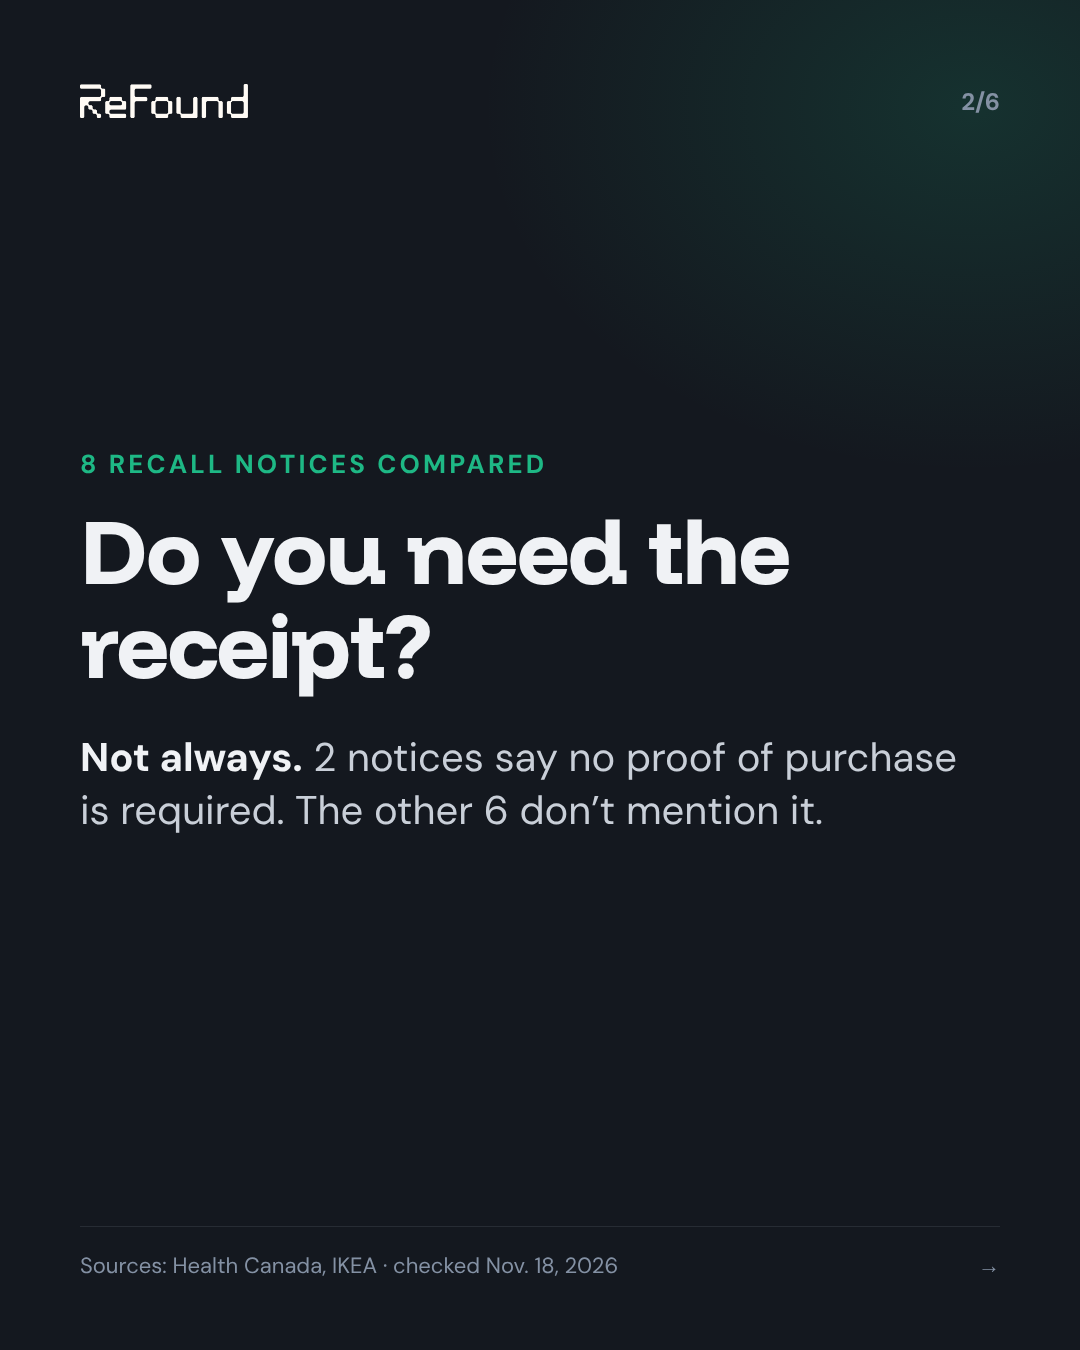
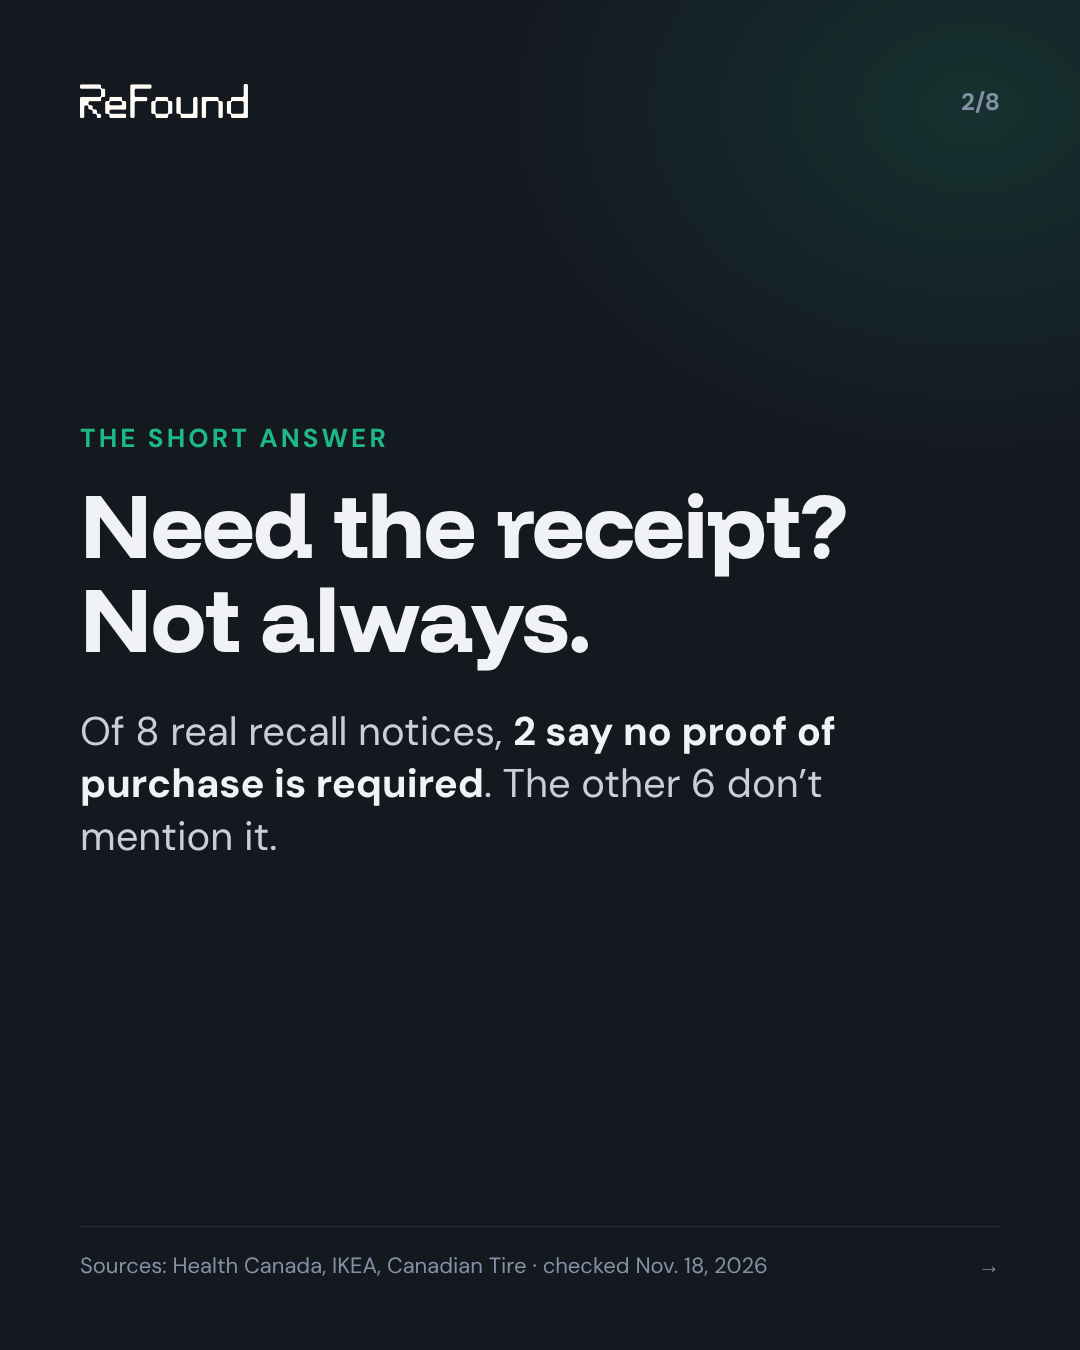
rappel-produit-recu carousel v2: 8 slides (hook, answer, value, real receipt, save-this checklist, CTA); 'list' slide type in render-carousel.js
Claude-Session: https://claude.ai/code/session_01RobFqgR2K4ctFiasTkgThL

Changed region(s): [[0.0611, 0.3111, 0.8861, 0.6533], [0.3667, 0.9333, 0.6111, 0.9644], [0.6417, 0.9333, 0.7028, 0.9644]]

diff --git a/social/rappel-produit-recu/slides.js b/social/rappel-produit-recu/slides.js
@@ -1,17 +1,33 @@
 // Contenu du carrousel (rendu : node tools/render-carousel.js rappel-produit-recu social/rappel-produit-recu)
+// Structure (social/README.md) : accroche → réponse → valeur (3 diapos) → reçu réel → diapo « à garder » → fin.
 module.exports = {
-  fr: { src: 'Sources : Santé Canada, IKEA · vérifié le 18 nov. 2026', slides: [
-    { type: 'hook', eyebrow: 'Rappel de produit', title: 'Un rappel <em>6 ans</em> après l’achat?', text: 'C’est arrivé à une souffleuse à neige vendue chez Canadian Tire. Votre reçu sert encore.' },
-    { type: 'text', eyebrow: '8 avis de rappel comparés', title: 'Faut-il le reçu?', text: '<b>Pas toujours.</b> 2 avis précisent qu’aucune preuve d’achat n’est requise. Les 6 autres n’en parlent pas.' },
+  fr: { src: 'Sources : Santé Canada, IKEA, Canadian Tire · vérifié le 18 nov. 2026', slides: [
+    { type: 'hook', eyebrow: 'Rappel de produit', title: 'Un rappel <em>6 ans</em> après l’achat?', text: 'Une souffleuse vendue chez Canadian Tire dès mars 2019 a été visée par un rappel élargi en mars 2025.' },
+    { type: 'text', eyebrow: 'La réponse courte', title: 'Faut-il le reçu? Pas toujours.', text: 'Sur 8 avis de rappel réels, <b>2 disent qu’aucune preuve d’achat n’est requise</b>. Les 6 autres n’en parlent pas.' },
     { type: 'stat', eyebrow: '4 rappels Canadian Tire', stat: '14 mois<br>à 6 ans', title: 'entre l’achat et l’avis', text: 'Le délai de retour, lui : 90 jours.' },
-    { type: 'text', eyebrow: 'Le reçu', title: 'Le numéro est sur votre reçu', text: 'Chez Canadian Tire, les avis citent un numéro au même format que le reçu, comme <b>043-5105</b>.' },
-    { type: 'text', eyebrow: 'Le produit', title: 'Le lot est sur l’étiquette', text: 'Lot, poinçon de date, CUP : vérifiez l’étiquette, puis appelez le numéro de l’avis avant de vous déplacer.' },
+    { type: 'text', eyebrow: 'Sans reçu', title: 'La carte ne suffit plus après 90 jours', text: 'Chez Canadian Tire, la recherche de reçu retrouve les achats par carte de crédit ou de débit dans les 90 jours. Après, il reste votre reçu.' },
+    { type: 'text', eyebrow: 'Le bon numéro', title: 'Le numéro est sur votre reçu', text: 'Les avis de rappel Canadian Tire citent un numéro au même format que les numéros d’article des reçus, comme <b style="white-space:nowrap">043-5105</b>.' },
+    { type: 'receipt', kit: 'canadian-tire', eyebrow: 'Un reçu réel Canadian Tire', title: 'Ce que vous compareriez',
+      rows: [[0, 'N° 083-5519-0', 'var(--gold)'], [7, 'N° 058-0070-6', 'var(--gold)']] },
+    { type: 'list', eyebrow: 'À garder', title: 'Produit rappelé : 4 vérifications', items: [
+      ['Cessez de l’utiliser', 'Tous les avis le demandent.'],
+      ['Vérifiez l’étiquette', 'Modèle, lot, poinçon de date ou CUP.'],
+      ['Retrouvez le reçu', 'Il prouve la date et le lieu d’achat.'],
+      ['Appelez avant d’y aller', 'Le numéro est dans l’avis.']] },
     { type: 'cta', eyebrow: 'Avant le prochain rappel', title: 'Gardez vos reçus avec ReFound', text: 'Une copie lisible, avec le numéro d’article et la date. Pour les alertes de rappel : abonnez-vous à Santé Canada.' }] },
-  en: { src: 'Sources: Health Canada, IKEA · checked Nov. 18, 2026', slides: [
-    { type: 'hook', eyebrow: 'Product recall', title: 'A recall <em>6 years</em> after you bought it?', text: 'It happened to a snowblower sold at Canadian Tire. Your receipt still matters.' },
-    { type: 'text', eyebrow: '8 recall notices compared', title: 'Do you need the receipt?', text: '<b>Not always.</b> 2 notices say no proof of purchase is required. The other 6 don’t mention it.' },
+  en: { src: 'Sources: Health Canada, IKEA, Canadian Tire · checked Nov. 18, 2026', slides: [
+    { type: 'hook', eyebrow: 'Product recall', title: 'A recall <em>6 years</em> after you bought it?', text: 'A snowblower sold at Canadian Tire from March 2019 was covered by an expanded recall in March 2025.' },
+    { type: 'text', eyebrow: 'The short answer', title: 'Need the receipt? Not always.', text: 'Of 8 real recall notices, <b>2 say no proof of purchase is required</b>. The other 6 don’t mention it.' },
     { type: 'stat', eyebrow: '4 Canadian Tire recalls', stat: '14 months<br>to 6 years', size: 170, title: 'between purchase and notice', text: 'The return window: 90 days.' },
-    { type: 'text', eyebrow: 'The receipt', title: 'The number is on your receipt', text: 'At Canadian Tire, notices list a number in the same format as the receipt, like <b>043-5105</b>.' },
-    { type: 'text', eyebrow: 'The product', title: 'The batch is on the label', text: 'Batch, date stamp, UPC: check the label, then call the number in the notice before you go.' },
+    { type: 'text', eyebrow: 'No receipt', title: 'Your card won’t help after 90 days', text: 'At Canadian Tire, receipt look-up finds credit or debit card purchases within 90 days. After that, only your receipt is left.' },
+    { type: 'text', eyebrow: 'The right number', title: 'The number is on your receipt', text: 'Canadian Tire recall notices list a number in the same format as receipt item numbers, like <b style="white-space:nowrap">043-5105-0</b>.' },
+    { type: 'receipt', kit: 'canadian-tire', eyebrow: 'A real Canadian Tire receipt', title: 'What you would compare',
+      names: { 0: 'VIC Fused wood street hockey stick, junior, 40 in', 7: 'Mag-Torch odourized butane refill, 160 g' },
+      rows: [[0, 'No. 083-5519-0', 'var(--gold)'], [7, 'No. 058-0070-6', 'var(--gold)']] },
+    { type: 'list', eyebrow: 'Save this', title: 'Recalled product: 4 checks', items: [
+      ['Stop using it', 'Every notice asks for this.'],
+      ['Check the label', 'Model, batch, date stamp or UPC.'],
+      ['Find the receipt', 'It proves when and where you bought it.'],
+      ['Call before you go', 'The number is in the notice.']] },
     { type: 'cta', eyebrow: 'Before the next recall', title: 'Keep your receipts with ReFound', text: 'A readable copy, with the item number and date. For recall alerts, subscribe to Health Canada.' }] }
 };

diff --git a/tools/render-carousel.js b/tools/render-carousel.js
@@ -1,7 +1,7 @@
 // Carrousels médias sociaux (social/README.md). Usage: node render-carousel.js <slug> <outDir>
 // 1080×1350 (Instagram, Facebook) : fr-01.png… et en-01.png… ; 1080×1920 (TikTok, 9:16) : tt-fr-01.png…, avec
 // zones de sécurité TikTok (haut 200 px, bas 460 px pour la légende, droite 130 px pour les boutons). Types de diapos : hook (accroche), text (titre + texte),
-// stat (gros chiffre), receipt (lignes de kit/receipts.json : ligne imprimée → produit → garantie/date), cta (fin).
+// stat (gros chiffre), list (liste numérotée « à garder » : [titre, détail]), receipt (lignes de kit/receipts.json : ligne imprimée → produit → garantie/date), cta (fin).
 // Contenu tiré de l'article (mêmes sources) ; titre ≤ 8 mots, texte ≤ 25 mots ; aucun faux bouton App Store.
 const { chromium } = require('playwright');
 const fs = require('fs'); const path = require('path');
@@ -44,6 +44,7 @@ const CSS = [font('Funnel Display', FD + '700-normal.woff2', 700), font('Funnel 
 .r.wp{grid-template-columns:150px 1fr;column-gap:24px}.r.wp>*:not(.ph){grid-column:2}.ph{grid-row:1/4;width:150px;height:150px;background:#fff;border-radius:14px;display:flex;align-items:center;justify-content:center;overflow:hidden;align-self:center}.ph img{max-width:100%;max-height:100%}
 .bd{justify-self:start;border:3px solid;border-radius:12px;padding:6px 16px;font-family:'Funnel Display';font-weight:800;font-size:32px}
 .s.tt{height:1920px;padding:200px 130px 460px 80px}.s.tt .t{font-size:84px}.s.tt .b{font-size:40px}
+.ls{list-style:none;padding:0;margin-top:40px;display:grid;gap:22px;counter-reset:n}.ls li{counter-increment:n;display:grid;grid-template-columns:72px 1fr;column-gap:22px;background:var(--card);border:1px solid var(--line);border-radius:18px;padding:22px 24px;align-items:center}.ls li:before{content:counter(n);grid-row:1/3;width:72px;height:72px;border-radius:50%;background:var(--green);color:#0E1217;font-family:'Funnel Display';font-weight:800;font-size:40px;display:flex;align-items:center;justify-content:center}.ls li span{font-weight:800;font-size:36px}.ls li div{color:#C9CFD8;font-size:28px;margin-top:4px}
 .cta .t{font-size:84px}.url{margin-top:44px;font-family:'Funnel Display';font-weight:800;font-size:56px;color:var(--green)}`;
 
 function slide(d, i, n, src, tt) {
@@ -57,6 +58,7 @@ function slide(d, i, n, src, tt) {
     body = `<div class="eyebrow">${d.eyebrow}</div><div class="t h" style="font-size:70px">${d.title}</div><div class="rows">${d.rows.map(([ix, badge, col]) => {
       const it = r.items[ix]; const ph = photo(it); return `<div class="r${ph ? ' wp' : ''}">${ph ? `<div class="ph"><img src="${ph}"></div>` : ''}<div class="pr">${esc(it.printed)}</div><div class="nm">${esc(d.names && d.names[ix] || it.name)}</div><div class="bd" style="border-color:${col};color:${col}">${esc(badge)}</div></div>`; }).join('')}</div>`;
   }
+  if (d.type === 'list') body = `<div class="eyebrow">${d.eyebrow}</div><div class="t h" style="font-size:72px">${d.title}</div><ol class="ls">${d.items.map(x => `<li><span class="h">${x[0]}</span><div>${x[1]}</div></li>`).join('')}</ol>`;
   if (d.type === 'cta') body = `<div class="cta"><div class="eyebrow">${d.eyebrow}</div><div class="t h">${d.title}</div><div class="b">${d.text}</div><div class="url">refoundapp.ca</div></div>`;
   return `<style>${CSS}</style><div class="s${tt ? ' tt' : ''}">${top}<div class="mid">${body}</div>${foot}</div>`;
 }

diff --git a/social/rappel-produit-recu/caption.md b/social/rappel-produit-recu/caption.md
@@ -1,15 +1,37 @@
 # Carrousel : rappel-produit-recu
 
 ## FR
-Un rappel peut arriver six ans après l'achat. Nous avons comparé 8 avis de rappel réels : deux disent qu'aucune preuve d'achat n'est requise, les six autres n'en parlent pas. Le numéro imprimé sur votre reçu aide à savoir si un article est visé. Le guide complet est sur notre site.
+Rappel de produit : faut-il le reçu pour être remboursé?
 
-#rappeldeproduit #preuvedachat #reçus #consommation #ReFound
+Pas toujours. Sur 8 avis de rappel réels au Canada, deux disent qu'aucune preuve d'achat n'est requise et les six autres n'en parlent pas. Et un rappel peut arriver six ans après l'achat : le numéro imprimé sur votre reçu aide à savoir si un article est visé.
 
-Lien : https://refoundapp.ca/blog/rappel-produit-recu
+Enregistrez les 4 vérifications, et envoyez-les à la personne qui garde les reçus chez vous.
+
+[Facebook] Le guide complet est en premier commentaire. (1er commentaire : Le guide complet : https://refoundapp.ca/blog/rappel-produit-recu)
+[Instagram] Le guide complet : lien du blog dans la bio.
+[TikTok] Le guide complet est sur refoundapp.ca, section Blog.
+
+#rappeldeproduit #preuvedachat #reçus #Québec #ReFound
+
+### Textes alternatifs (FR)
+1. Un rappel de produit 6 ans après l'achat : une souffleuse vendue chez Canadian Tire dès mars 2019, visée par un rappel élargi en mars 2025.
+2. Faut-il le reçu pour un rappel? Pas toujours : 2 avis de rappel sur 8 disent qu'aucune preuve d'achat n'est requise.
+3. De 14 mois à 6 ans entre l'achat et l'avis de rappel pour 4 produits Canadian Tire, contre 90 jours pour un retour.
+4. Chez Canadian Tire, la recherche de reçu retrouve les achats par carte dans les 90 jours seulement.
+5. Les avis de rappel Canadian Tire citent un numéro au même format que les numéros d'article des reçus, comme 043-5105.
+6. Deux lignes d'un reçu réel Canadian Tire avec le produit identifié par ReFound et son numéro d'article.
+7. Produit rappelé : 4 vérifications. Cesser de l'utiliser, vérifier l'étiquette, retrouver le reçu, appeler avant d'y aller.
+8. Gardez vos reçus avec ReFound, refoundapp.ca. Pour les alertes de rappel, abonnez-vous à Santé Canada.
 
 ## EN
-A recall can come six years after you buy. We compared 8 real recall notices: two say no proof of purchase is required, the other six don't mention it. The number printed on your receipt helps you tell if an item is affected. Read the full guide on our site.
+Product recall: do you need the receipt to get a refund?
 
-#productrecall #proofofpurchase #receipts #consumertips #ReFound
+Not always. Of 8 real recall notices in Canada, two say no proof of purchase is required and the other six don't mention it. And a recall can come six years after you buy: the number printed on your receipt helps you tell if an item is affected.
 
-Link: https://refoundapp.ca/en/blog/product-recall-receipt
+Save the 4 checks, and send them to whoever keeps the receipts at home.
+
+[Facebook] The full guide is in the first comment. (1st comment: The full guide: https://refoundapp.ca/en/blog/product-recall-receipt)
+[Instagram] Full guide: blog link in bio.
+[TikTok] The full guide is on refoundapp.ca, Blog section.
+
+#productrecall #proofofpurchase #receipts #Canada #ReFound
